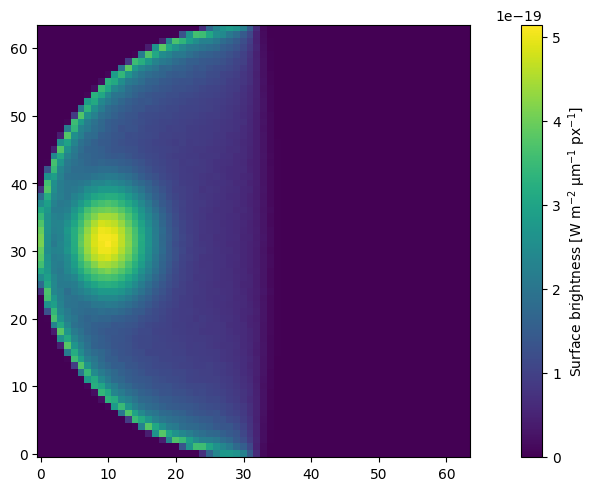
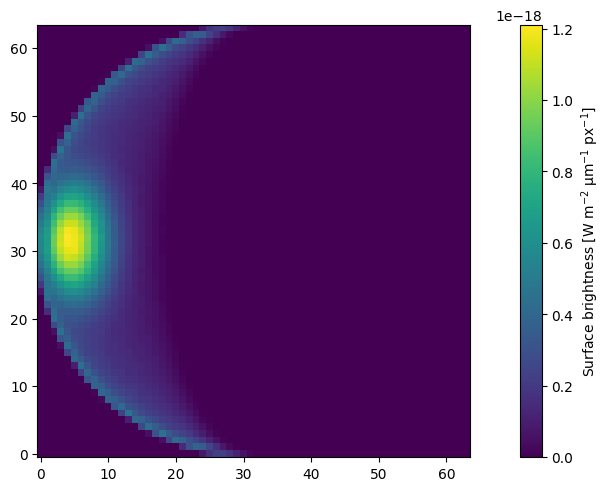
added test cases

diff --git a/src/MathFunctions_t.cpp b/src/MathFunctions_t.cpp
@@ -324,6 +324,57 @@ TEST_CASE("CMathFunctions::calcWVMie::W2", "[MathFunctions][CMathFunctions]")
     }
 }
 
+TEST_CASE("CMathFunctions::integCoxMunkNorm", "[MathFunctions][CMathFunctions]")
+{
+    // at low wind speeds, the integral should be approximately cos(theta)
+    interp cm_norm = CMathFunctions::integCoxMunkNorm(0.003);
+    uint n_theta = 901;
+    for(uint t = 0; t < n_theta; t++) {
+        double mu = cos(double(t / n_theta) * PI2);
+        REQUIRE(std::abs(cm_norm.getValue(mu) - mu) < 1e-3);
+    }
+}
+
+TEST_CASE("CMathFunctions::findRootBrent::LommelSeeliger", "[MathFunctions][CMathFunctions]")
+{
+    CRandomGenerator randgen {};
+    randgen.init(123);
+
+    auto mu_0 = GENERATE(0.01, 0.25, 0.33, 0.5, 0.67, 0.75, 1.0);
+
+    double mu {};
+    double mu_mean {0.0};
+    double mu_min {PI2};
+    double mu_max {0.0};
+    constexpr std::size_t n_samples {1024 * 1024};
+
+    for (uint i = 0; i < 512; i++) {
+        double mu_rnd {randgen.getRND()};
+        double rnd {CMathFunctions::getLommelSeeligerIntegral(mu_rnd, {mu_0, 0.0})};
+        mu = CMathFunctions::findRootBrent(0.0, 1.0, &CMathFunctions::getLommelSeeligerIntegral, {mu_0, rnd});
+        // the procedure should find the root of mu
+        REQUIRE(std::abs(mu_rnd - mu) < 1e-4);
+    }
+
+    for (std::size_t i = 0; i < n_samples; ++i) {
+        mu = CMathFunctions::findRootBrent(0.0, 1.0, &CMathFunctions::getLommelSeeligerIntegral, {mu_0, randgen.getRND()});
+        mu_mean += mu;
+        mu_min = std::min(mu, mu_min);
+        mu_max = std::max(mu, mu_max);
+    }
+
+    CAPTURE(mu_0);
+
+    mu_mean /= static_cast<double>(n_samples);
+    // mu should be between 0 and pi/2
+    REQUIRE(mu_min >= 0.0);
+    REQUIRE(mu_max <= PI2);
+    REQUIRE(mu_min < mu_max);
+    // mean value should be approximately 1 / (2 - 2 * mu_0 * ln(1 + 1/mu_0)) - mu_0
+    double mean_value {0.5 / (1.0 - mu_0 * log(1.0 + 1.0 / mu_0)) - mu_0};
+    REQUIRE(std::abs(mu_mean - mean_value) < 0.01);
+}
+
 TEST_CASE("CMathFunctions::findRootBrent::Phi", "[MathFunctions][CMathFunctions]")
 {
     CRandomGenerator randgen {};

diff --git a/projects/test/planet/compare.py b/projects/test/planet/compare.py
@@ -16,6 +16,11 @@ def lambertian(phase, albedo=1.0):
     return albedo * 2.0 / (3.0 * np.pi) * (np.sin(phase) + (np.pi - phase) * np.cos(phase))
 
 
+def lommelseeliger(phase, albedo=1.0):
+    res = 0.125 * albedo
+    return res * (1.0 + np.sin(0.5 * phase) * np.tan(0.5 * phase) * np.log(np.tan(0.25 * phase), out=np.zeros_like(phase), where=phase > 0.0))
+
+
 def read_data(sed_fits_file):
     fits_header = fits.getheader(sed_fits_file)
     fits_data = fits.getdata(sed_fits_file)
@@ -38,8 +43,10 @@ def read_data(sed_fits_file):
 
 def compare():
     benchmarks = [
-        "lambertian_exten", "rayleigh_tau0.3_surface1.0_exten", "rayleigh_tau5.0_surface0.0_exten", "rayleigh_tau10.0_surface0.3_exten",
-        "lambertian_plane", "rayleigh_tau0.3_surface1.0_plane", "rayleigh_tau5.0_surface0.0_plane", "rayleigh_tau10.0_surface0.3_plane"]
+        "lambertian_exten", "lommelseeliger_exten",
+        "rayleigh_tau0.3_surface1.0_exten", "rayleigh_tau5.0_surface0.0_exten", "rayleigh_tau10.0_surface0.3_exten",
+        "lambertian_plane", "lommelseeliger_plane",
+        "rayleigh_tau0.3_surface1.0_plane", "rayleigh_tau5.0_surface0.0_plane", "rayleigh_tau10.0_surface0.3_plane"]
 
     for benchmark in benchmarks:
         phase_angles = []
@@ -56,6 +63,9 @@ def compare():
 
         if benchmark.replace('_exten', '').replace('_plane', '') == 'lambertian':
             I_ref = lambertian(np.deg2rad(phase_angles))
+            P_ref = np.zeros_like(I_ref)
+        elif benchmark.replace('_exten', '').replace('_plane', '') == 'lommelseeliger':
+            I_ref = lommelseeliger(np.deg2rad(phase_angles))
             P_ref = np.zeros_like(I_ref)
         else:
             ref_file = os.path.join('projects', 'test', 'planet', 'reference', benchmark.replace('_exten', '').replace('_plane', '') + '.txt')

diff --git a/projects/plot.py b/projects/plot.py
@@ -118,7 +118,7 @@ def plot(model):
         fig.savefig(os.path.join('projects', model, f'{model}.png'), bbox_inches='tight')
 
         if model == 'ocean':
-            nr = len(files) // 2
+            nr = 2 * len(files) // 3
             file = os.path.join('projects', model, 'data', f'polaris_detector_nr{nr:04d}.fits.gz')
             sed_data = read_data(file, f'{model}_res')
             sed_data['P'] = np.sqrt(sed_data['Q']**2 + sed_data['U']**2) / sed_data['I']
